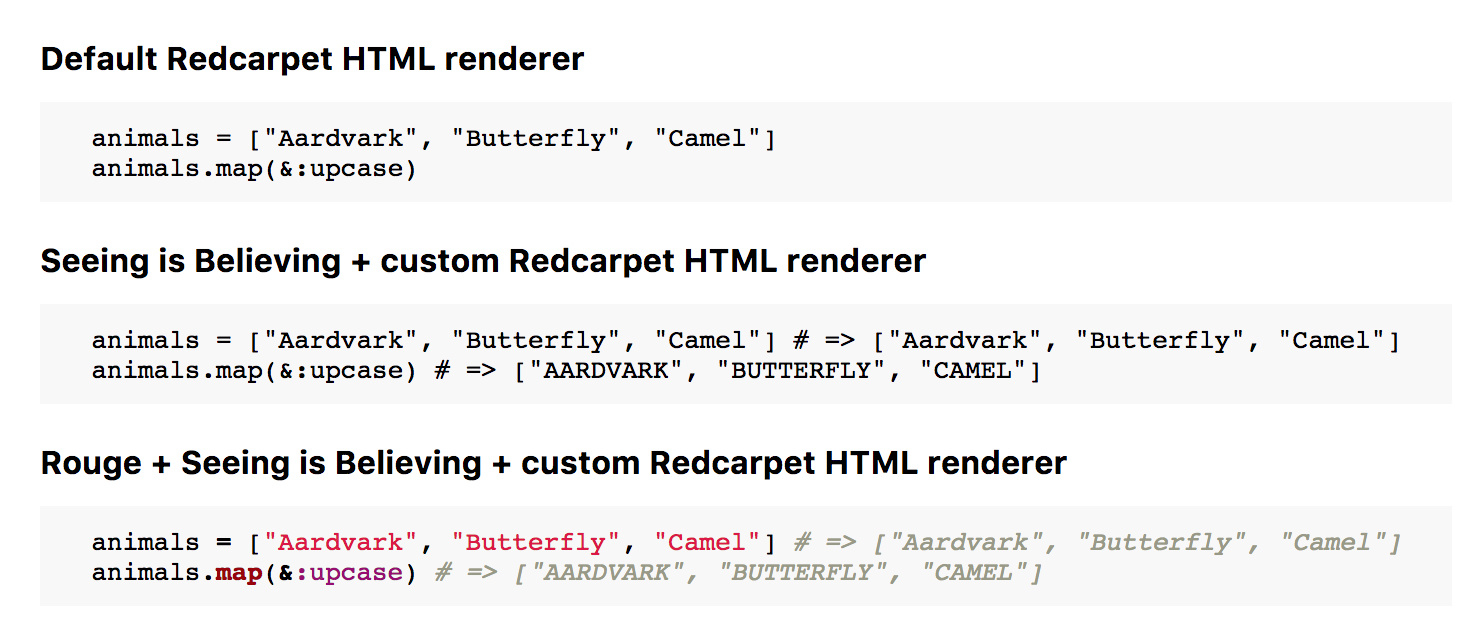
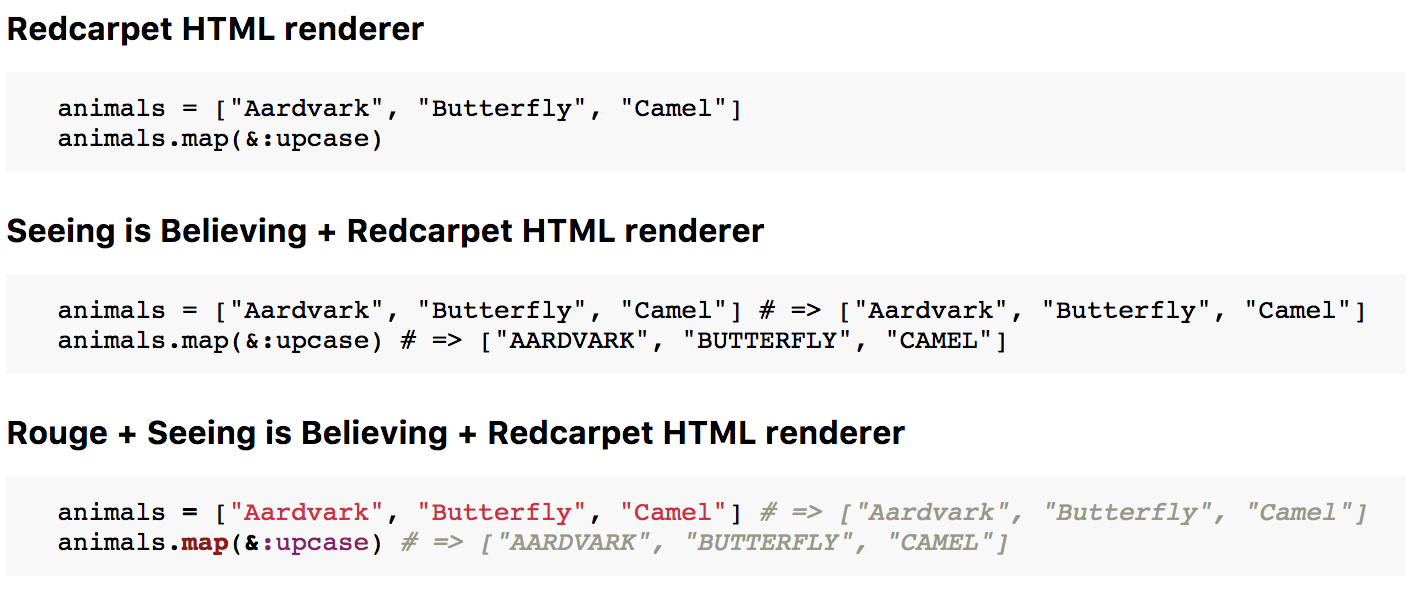
Update Readme and example app

diff --git a/example_app/app.rb b/example_app/app.rb
@@ -6,11 +6,11 @@ require "sinatra"
 require_relative "../lib/redcarpet/render/seeing_is_believing"
 
 class SiBHtmlRenderer < Redcarpet::Render::HTML
+  prepend Redcarpet::Render::SeeingIsBelieving
+
   def block_code(code, language)
     "<pre><code>#{code}</code></pre>"
   end
-
-  prepend Redcarpet::Render::SeeingIsBelieving
 end
 
 class SiBRougeHtmlRenderer < Redcarpet::Render::HTML
@@ -19,21 +19,23 @@ class SiBRougeHtmlRenderer < Redcarpet::Render::HTML
 end
 
 get "/" do
-  markdown_example = <<~MARKDOWN
+  markdown = <<~MARKDOWN
     ```ruby+
       animals = ["Aardvark", "Butterfly", "Camel"]
       animals.map(&:upcase)
     ```
   MARKDOWN
 
-  default_html = Redcarpet::Markdown.new(Redcarpet::Render::HTML, fenced_code_blocks: true).
-    render(markdown_example)
+  options = { fenced_code_blocks: true }
 
-  sib_html = Redcarpet::Markdown.new(SiBHtmlRenderer, fenced_code_blocks: true).
-    render(markdown_example)
+  default_html =
+    Redcarpet::Markdown.new(Redcarpet::Render::HTML, options).render(markdown)
 
-  sib_rouge_html = Redcarpet::Markdown.new(SiBRougeHtmlRenderer, fenced_code_blocks: true).
-    render(markdown_example)
+  sib_html =
+    Redcarpet::Markdown.new(SiBHtmlRenderer, options).render(markdown)
+
+  sib_rouge_html =
+    Redcarpet::Markdown.new(SiBRougeHtmlRenderer, options).render(markdown)
 
   css = Rouge::Theme.find("github").render(scope: ".highlight")
 
@@ -58,13 +60,13 @@ get "/" do
           </style>
       </head>
       <body>
-        <b>Default Redcarpet HTML renderer</b>
+        <b>Redcarpet HTML renderer</b>
         #{default_html}
 
-        <b>Seeing is Believing + custom Redcarpet HTML renderer</b>
+        <b>Seeing is Believing + Redcarpet HTML renderer</b>
         #{sib_html}
 
-        <b>Rouge + Seeing is Believing + custom Redcarpet HTML renderer</b>
+        <b>Rouge + Seeing is Believing + Redcarpet HTML renderer</b>
         #{sib_rouge_html}
       </body>
     </html>

diff --git a/README.md b/README.md
@@ -2,7 +2,7 @@
 
 Powerup the Ruby examples in your markdown. Combines the excellent
 [Redcarpet][redcarpet] (a markdown parser) with [Seeing Is Believing][sib],
-which evaluates each line of code.
+which shows the evaluated result from each line of code.
 
 If your markdown includes a fenced code block with `ruby+` specified as the
 language:
@@ -23,11 +23,11 @@ require "redcarpet-render-seeing_is_believing"
 require "redcarpet"
 
 class MyCustomHtmlRenderer < Redcarpet::Render::HTML
+  prepend Redcarpet::Render::SeeingIsBelieving
+
   def block_code(code, language)
     "<pre><code>#{code}</code></pre>"
   end
-
-  prepend Redcarpet::Render::SeeingIsBelieving
 end
 
 Redcarpet::Markdown.new(MyCustomHtmlRenderer, fenced_code_blocks: true).
